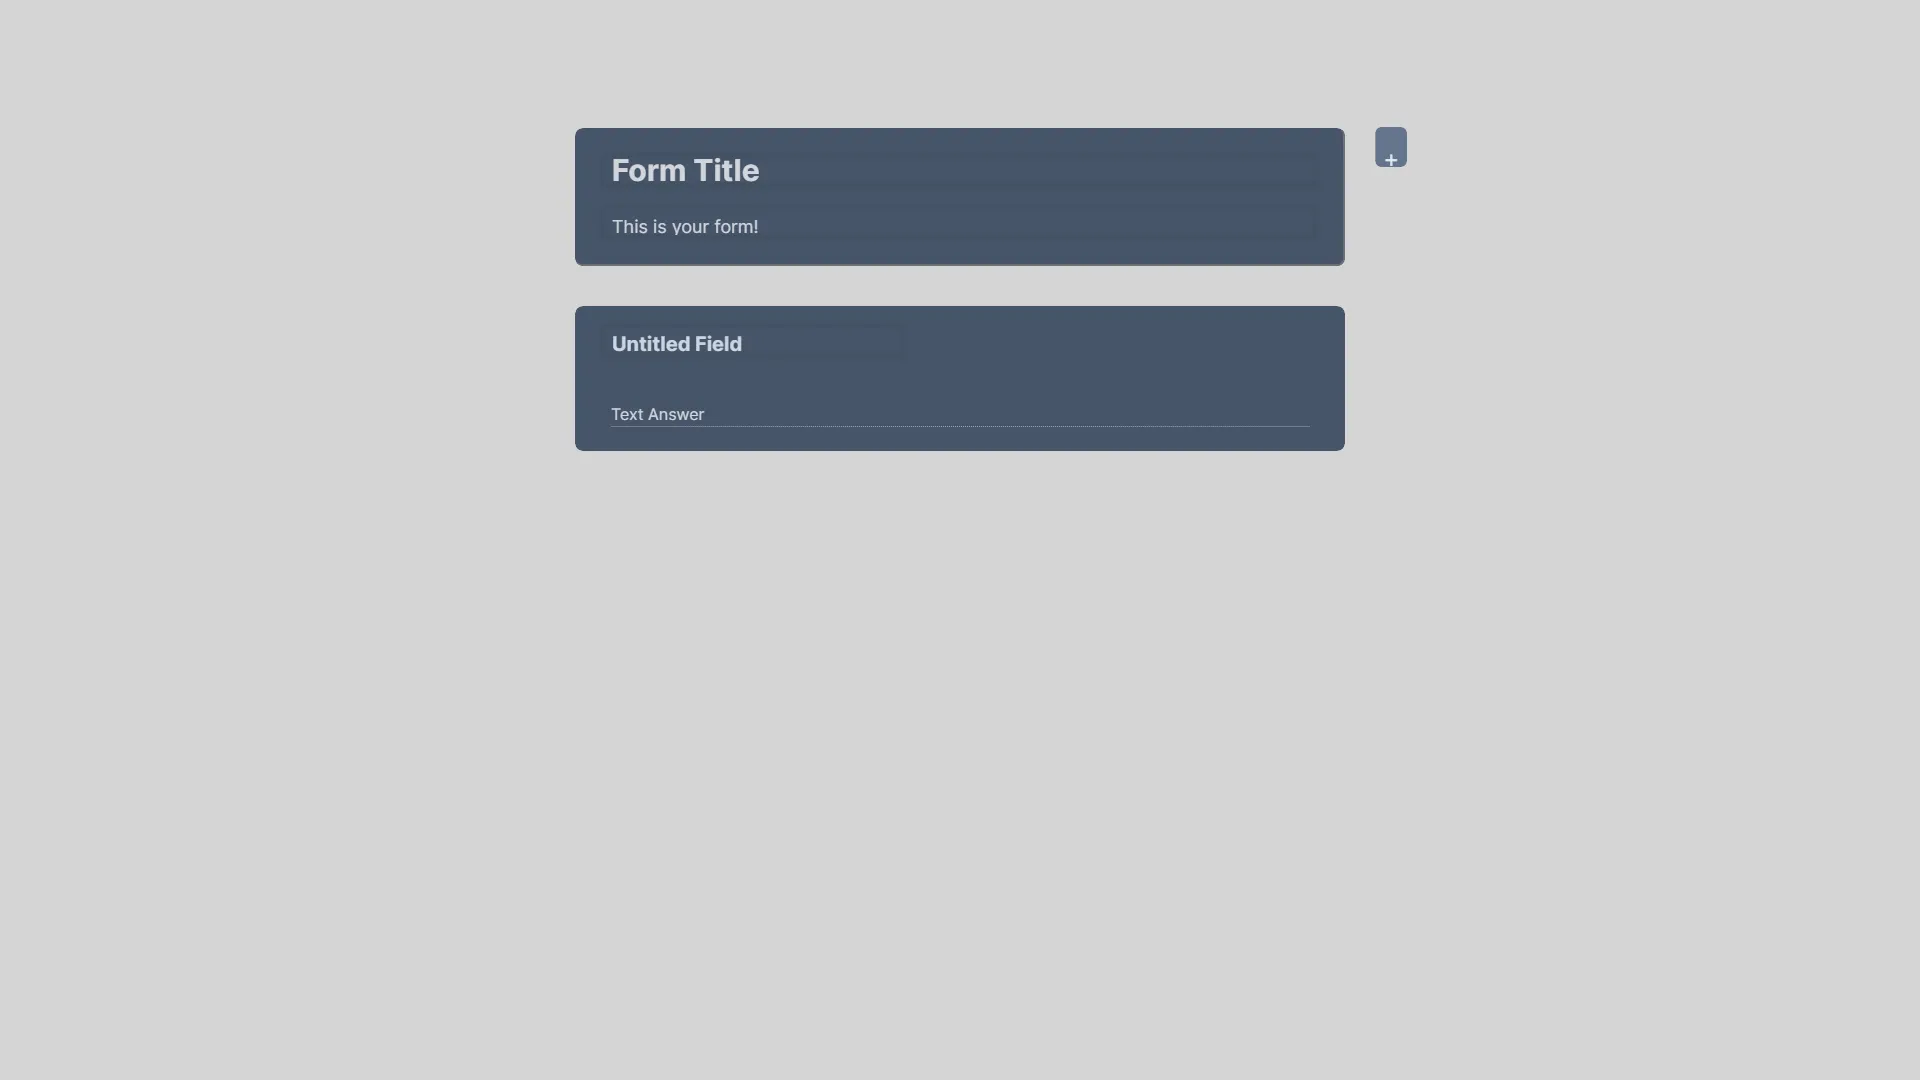
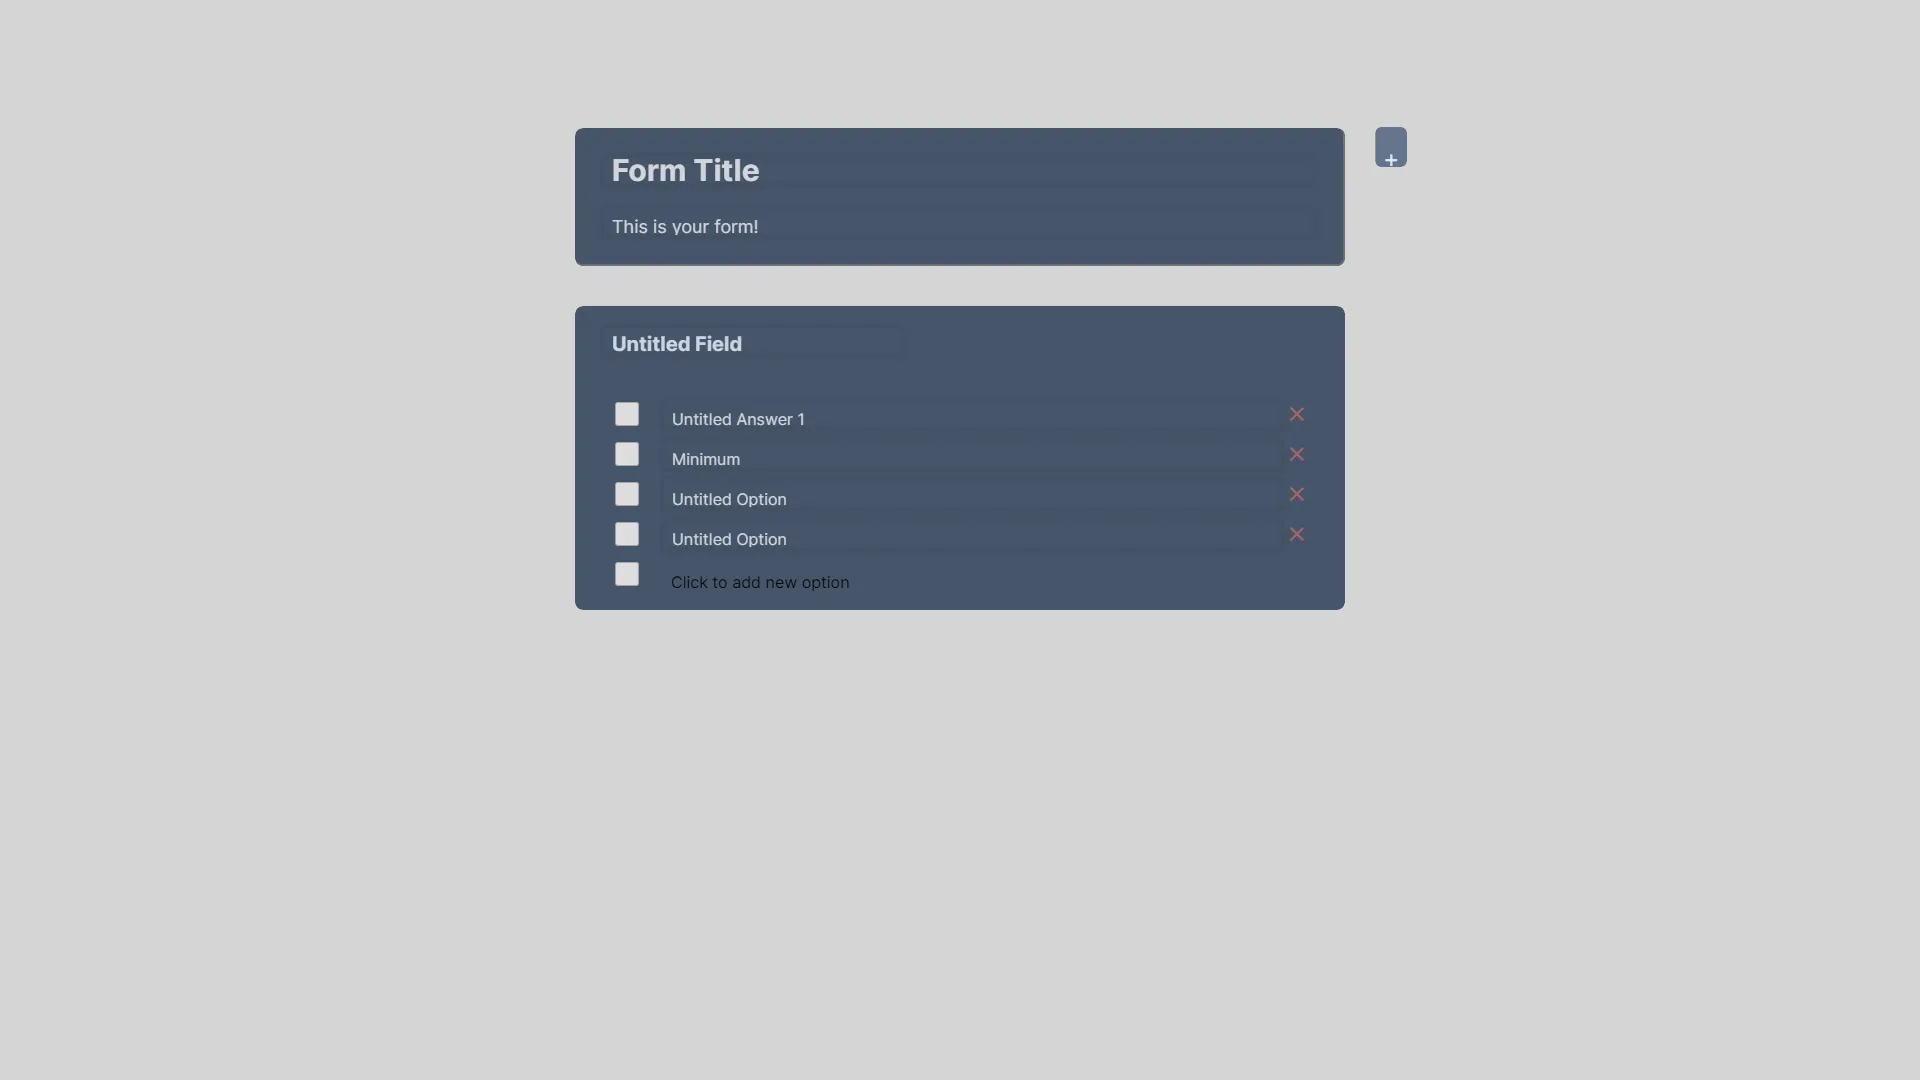
Fix checkbox answer, added safe forms data fetching

Changed region(s): [[0.2812, 0.3667, 0.7188, 0.5806]]

diff --git a/src/app/(protected)/forms/[formid]/page.tsx b/src/app/(protected)/forms/[formid]/page.tsx
@@ -1,8 +1,56 @@
+"use client";
+
 import { usePathname } from "next/navigation";
+import { useEffect, useState } from "react";
+import {
+  getSavedForm,
+  getSavedFormClient,
+} from "../../../../../actions/getSavedForm";
+import { LoaderCircle } from "@/components/loader";
 
 const FormsPage = () => {
-    const pathname = usePathname();
-    
+  const [form, setForm] = useState<any>(null);
+  const [theme, setTheme] = useState<string>("dark");
+  const pathname = usePathname();
+  useEffect(() => {
+    let localTheme = localStorage.getItem("theme");
+    if (localTheme) setTheme(localTheme);
+    async function getxd() {
+      const formtmp = await getSavedFormClient(pathname.split("/")[2]);
+      setForm(formtmp);
+    }
+    getxd();
+  }, []);
+
+  if (form == null)
+    return (
+      <div className="flex w-full min-h-screen flex-row justify-center align-middle">
+        <LoaderCircle></LoaderCircle>
+      </div>
+    );
+  if (form === "null") {
+    return (
+      <div className="flex w-full min-h-screen align-middle items-center flex-row">
+        <div className="text-lg font-bold w-full text-center">
+          Form does not exist!
+        </div>
+      </div>
+    );
+  }
+  if (form === "expired") {
+    return (
+      <div className="flex w-full min-h-screen align-middle items-center flex-row">
+        <div className="text-lg font-bold w-full text-center">
+          Form link is expired!
+        </div>
+      </div>
+    );
+  }
+  return (
+    <main data-theme={theme} className="overflow-y-auto">
+      <div className="overflow-y-auto"></div>
+    </main>
+  );
 };
 
 export default FormsPage;

diff --git a/src/components/formAdmin/answerFields/CheckboxAnswer.tsx b/src/components/formAdmin/answerFields/CheckboxAnswer.tsx
@@ -28,15 +28,17 @@ export const CheckboxAnswer = ({
     )
   );
   const [answerTitles, setTitle] = useState<string[]>(
-    field.Answers.toSorted((a: any, b: any) => {
-      if ((a as any).answerPos < (b as any).answerPos) {
-        return -1;
-      }
-      if ((a as any).answerPos > (b as any).answerPos) {
-        return 1;
-      }
-      return 0;
-    }).map((answer: any) => answer.answerName)
+    field.Answers.filter((f: any) => f.answerType === 0)
+      .toSorted((a: any, b: any) => {
+        if ((a as any).answerPos < (b as any).answerPos) {
+          return -1;
+        }
+        if ((a as any).answerPos > (b as any).answerPos) {
+          return 1;
+        }
+        return 0;
+      })
+      .map((answer: any) => answer.answerName)
   );
   return (
     <div className="px-3">
@@ -128,7 +130,7 @@ export const CheckboxAnswer = ({
             const newArr = [...prev];
             newArr.push({
               answerName: "Untitled Option",
-              answerType: 1,
+              answerType: 0,
               answerPos: answers.length,
             });
             return newArr;

diff --git a/actions/getSavedForm.ts b/actions/getSavedForm.ts
@@ -1,10 +1,10 @@
 "use server";
 
-import {db} from "@/lib/db";
+import { db } from "@/lib/db";
 import { Prisma } from "@prisma/client";
-import cuid from 'cuid';
+import cuid from "cuid";
 
-export const getSavedForm = async(id:string) => { 
+export const getSavedForm = async (id: string) => {
   const form = await db.savedForm.findFirst({
     where: {
       formid: id,
@@ -14,8 +14,33 @@ export const getSavedForm = async(id:string) => {
         include: {
           Answers: true,
         },
-      }
-    }
+      },
+    },
   });
-      return form;
-}
+  return form;
+};
+
+export const getSavedFormClient = async (id: string) => {
+  const formid = await db.sharableLinkForm.findFirst({
+    where: {
+      link: id,
+    },
+  });
+  if (formid === null) {
+    return "null";
+  }
+  if (formid.expirationDate.getTime() !== 0) {
+    if (formid.expirationDate.getTime() < new Date().getTime()) {
+      return "expired";
+    }
+  }
+  const form = await db.savedForm.findFirst({
+    where: {
+      formid: formid.formid,
+    },
+    include: {
+      fields: true,
+    },
+  });
+  return form;
+};

diff --git a/src/components/formAdmin/answerFields/OneAnswer.tsx b/src/components/formAdmin/answerFields/OneAnswer.tsx
@@ -28,15 +28,17 @@ export const RadioButtons = ({
     )
   );
   const [answerTitles, setTitle] = useState<string[]>(
-    field.Answers.toSorted((a: any, b: any) => {
-      if ((a as any).answerPos < (b as any).answerPos) {
-        return -1;
-      }
-      if ((a as any).answerPos > (b as any).answerPos) {
-        return 1;
-      }
-      return 0;
-    }).map((answer: any) => answer.answerName)
+    field.Answers.filter((f: any) => f.answerType === 0)
+      .toSorted((a: any, b: any) => {
+        if ((a as any).answerPos < (b as any).answerPos) {
+          return -1;
+        }
+        if ((a as any).answerPos > (b as any).answerPos) {
+          return 1;
+        }
+        return 0;
+      })
+      .map((answer: any) => answer.answerName)
   );
   return (
     <div className="px-3">
@@ -129,7 +131,7 @@ export const RadioButtons = ({
             const newArr = [...prev];
             newArr.push({
               answerName: "Untitled Option",
-              answerType: 1,
+              answerType: 0,
               answerPos: answers.length,
             });
             return newArr;

diff --git a/src/app/(protected)/forms/form/[formid]/page.tsx b/src/app/(protected)/forms/form/[formid]/page.tsx
@@ -17,7 +17,6 @@ import { saveImageServer } from "../../../../../../actions/saveImageServer";
 const FormPage = () => {
   const [theme, setTheme] = useState<string>("dark");
   const [form, setForm] = useState<any>(null);
-  const [showModal, setShowModal] = useState<boolean>(false);
   const pathname = usePathname();
   useEffect(() => {
     let localTheme = localStorage.getItem("theme");
